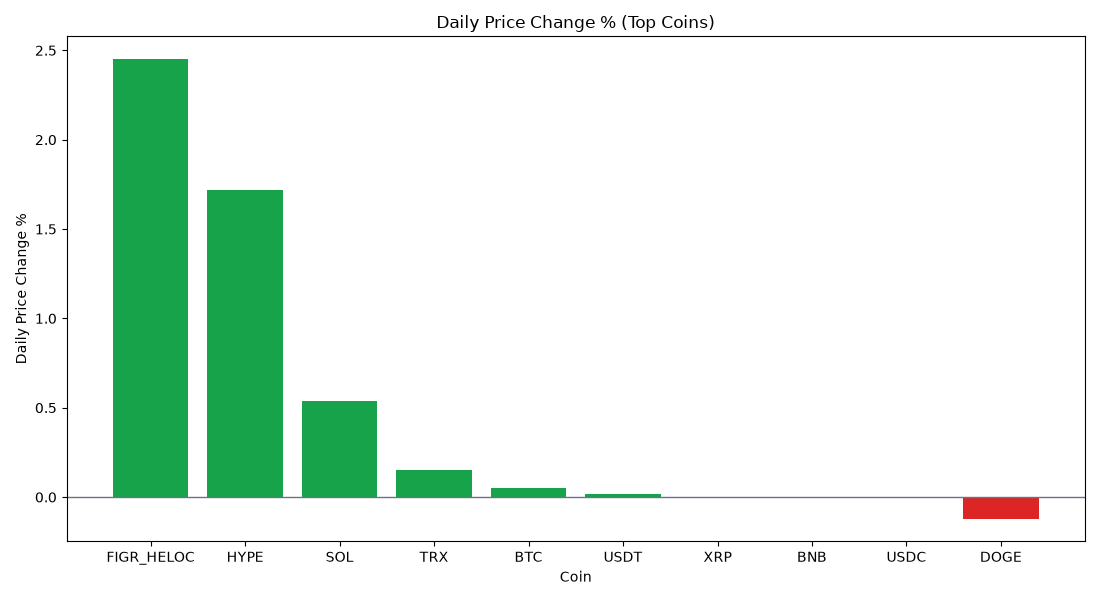
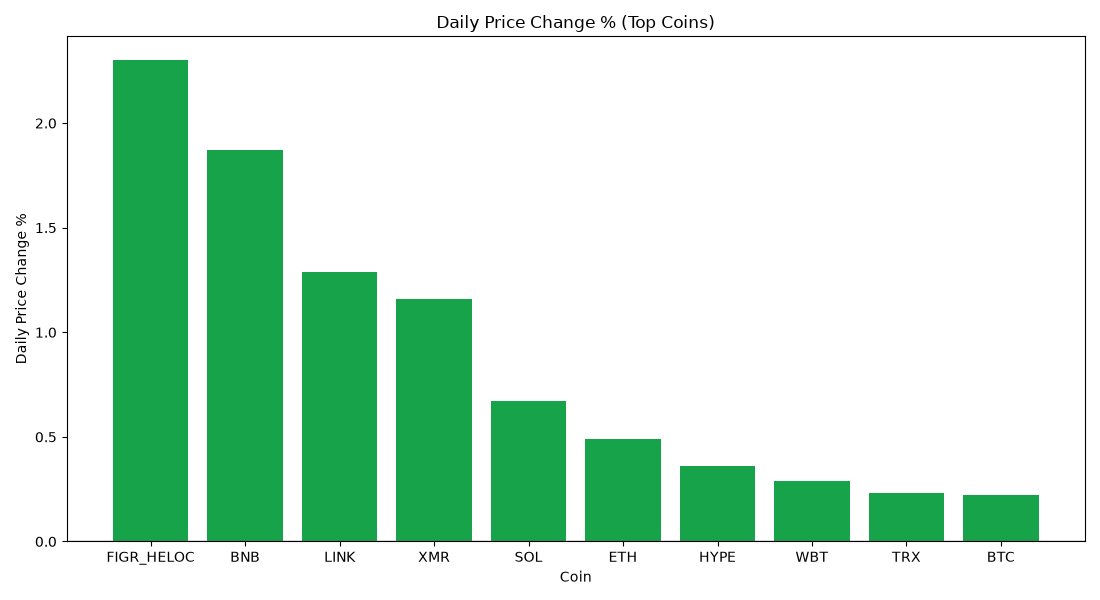
chore: daily crypto ETL update

diff --git a/README.md b/README.md
@@ -48,15 +48,15 @@ It updates:
 <!-- AUTO-GENERATED-SECTION:START -->
 ## Latest Automated Update
 
-![Last Update](https://img.shields.io/badge/last%20update-2026--10--03%2001%3A39%20UTC-blue)
+![Last Update](https://img.shields.io/badge/last%20update-2026--10--04%2002%3A15%20UTC-blue)
 
-- Pipeline run time: **2026-10-03 01:39 UTC**
-- Snapshot date: **2026-10-03**
+- Pipeline run time: **2026-10-04 02:15 UTC**
+- Snapshot date: **2026-10-04**
 - Coins tracked: **15**
-- Avg daily price change: **0.05%**
+- Avg daily price change: **0.49%**
 
-- Top gainer: **FIGR_HELOC (2.45%)**
-- Top loser: **LINK (-2.18%)**
+- Top gainer: **FIGR_HELOC (2.3%)**
+- Top loser: **ZEC (-1.11%)**
 
 ### Trend Charts
 
@@ -68,15 +68,15 @@ It updates:
 
 | Coin | Symbol | Price | Daily Change | Trend |
 |---|---:|---:|---:|---|
-| Bitcoin | BTC | $84,630.0000 | 0.05% | Sideways |
-| Ethereum | ETH | $2,680.4700 | -0.74% | Sideways |
-| Tether | USDT | $0.9999 | 0.02% | Sideways |
-| BNB | BNB | $769.3000 | 0.00% | Sideways |
+| Bitcoin | BTC | $84,817.0000 | 0.22% | Sideways |
+| Ethereum | ETH | $2,693.4900 | 0.49% | Sideways |
+| Tether | USDT | $0.9999 | 0.00% | Sideways |
+| BNB | BNB | $783.7000 | 1.87% | Bullish |
 | XRP | XRP | $1.4900 | 0.00% | Sideways |
-| USDC | USDC | $0.9999 | 0.00% | Sideways |
-| Solana | SOL | $119.3100 | 0.54% | Sideways |
-| TRON | TRX | $0.3348 | 0.15% | Sideways |
-| Figure Heloc | FIGR_HELOC | $1.0450 | 2.45% | Bullish |
-| Zcash | ZEC | $1,320.2000 | -0.15% | Sideways |
+| USDC | USDC | $1.0000 | 0.01% | Sideways |
+| Solana | SOL | $120.1100 | 0.67% | Sideways |
+| TRON | TRX | $0.3355 | 0.23% | Sideways |
+| Figure Heloc | FIGR_HELOC | $1.0690 | 2.30% | Bullish |
+| Zcash | ZEC | $1,305.5700 | -1.11% | Bearish |
 
 <!-- AUTO-GENERATED-SECTION:END -->

diff --git a/artifacts/reports/daily_summary.md b/artifacts/reports/daily_summary.md
@@ -1,8 +1,8 @@
 # Daily Trend Summary
 
-- Generated at (UTC): 2026-10-03T01:39:00.469396+00:00
-- Snapshot date: 2026-10-03
+- Generated at (UTC): 2026-10-04T02:15:25.263334+00:00
+- Snapshot date: 2026-10-04
 - Coins tracked: 15
-- Average daily price change: 0.05%
-- Top gainer: FIGR_HELOC (2.45%)
-- Top loser: LINK (-2.18%)
+- Average daily price change: 0.49%
+- Top gainer: FIGR_HELOC (2.3%)
+- Top loser: ZEC (-1.11%)
